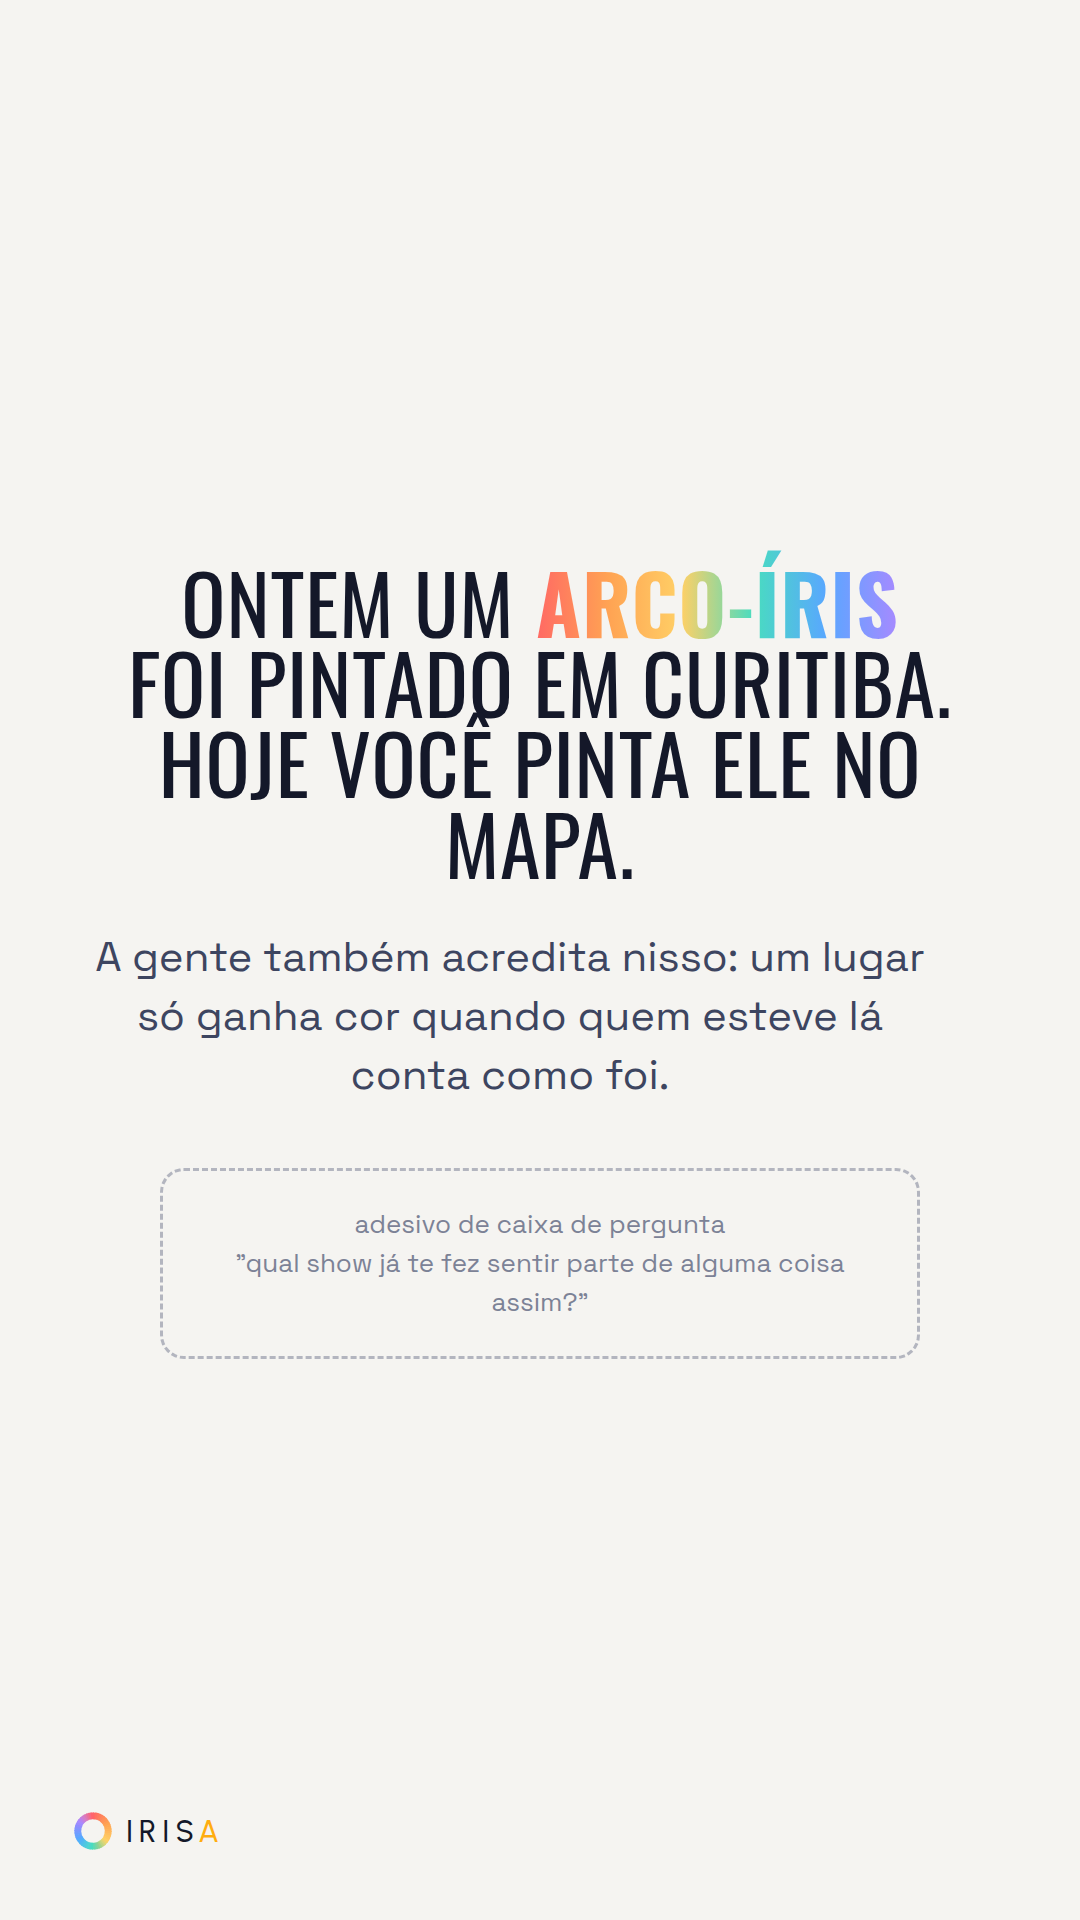
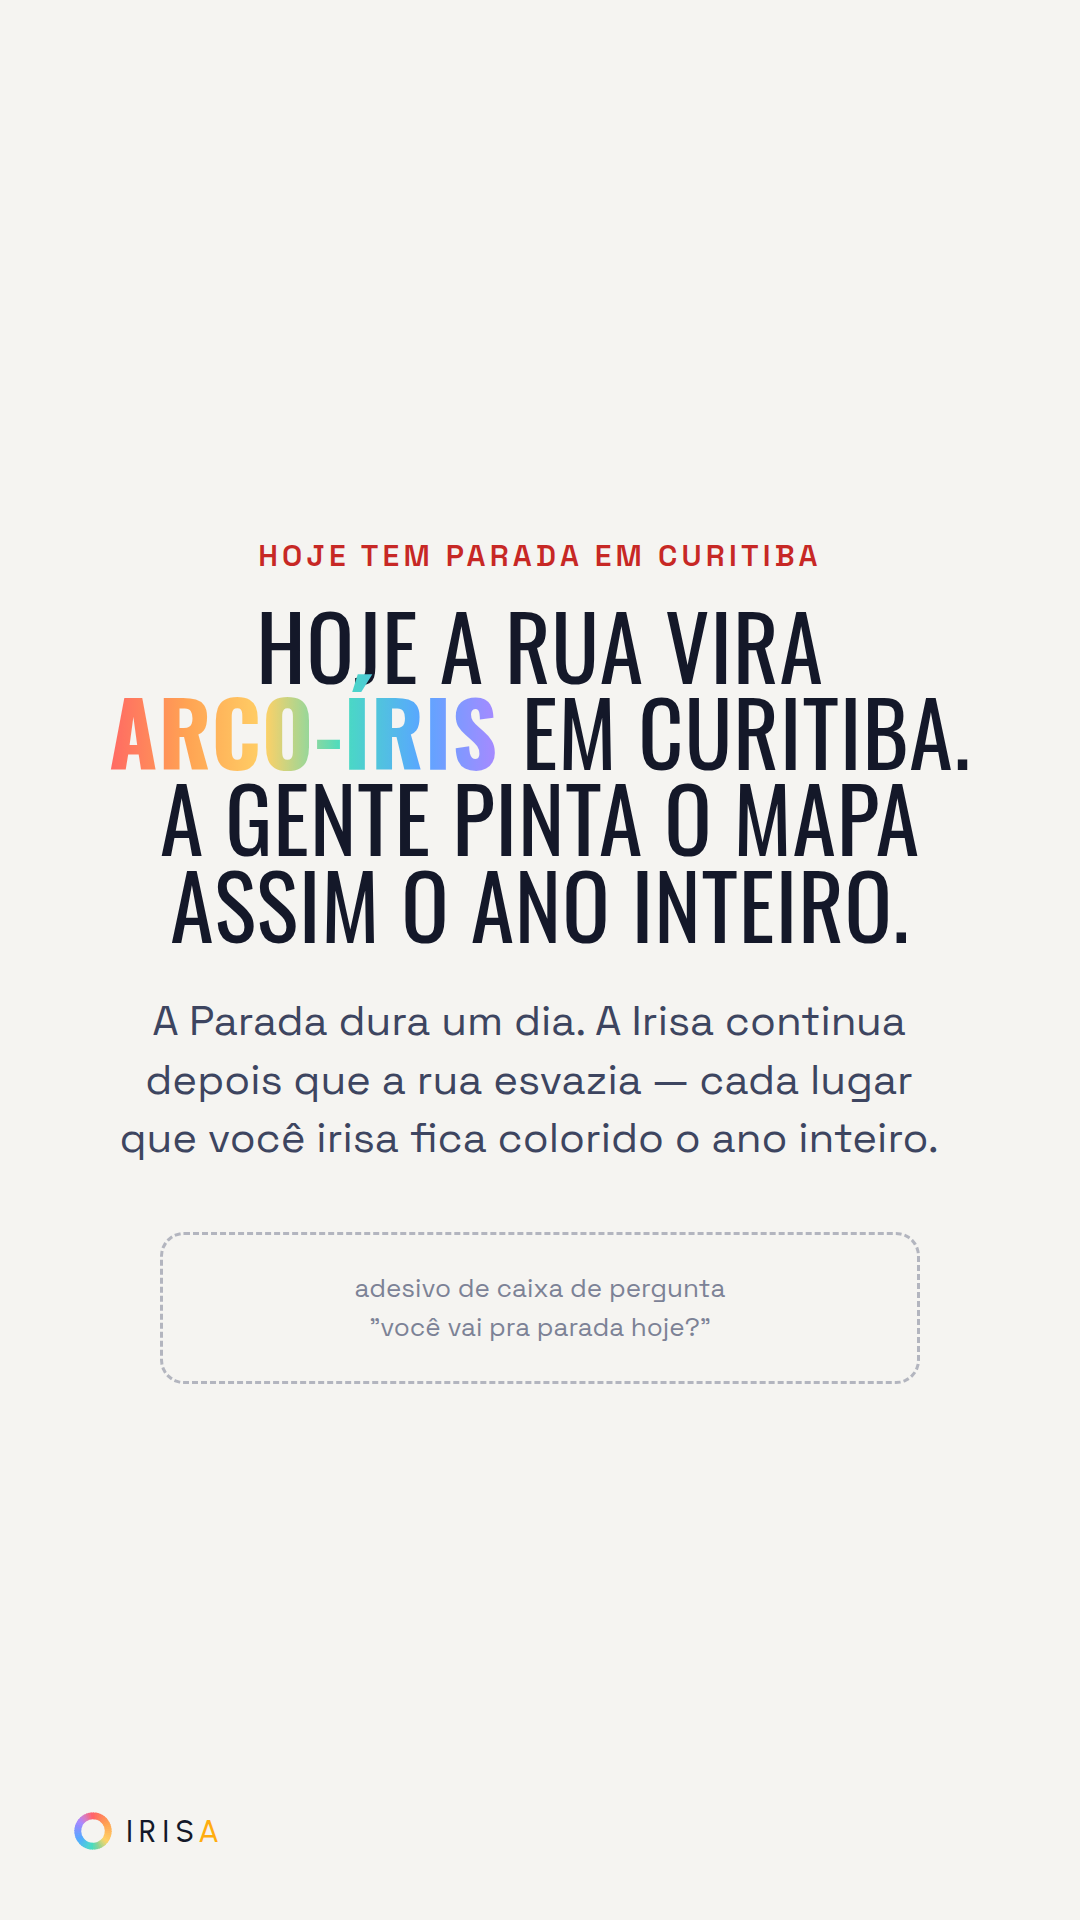
Story de hoje: reescrito pra ser sobre a Parada de Curitiba hoje, não sobre o show de ontem

Changed region(s): [[0.0917, 0.2812, 0.8861, 0.7188], [0.7333, 0.6562, 0.7639, 0.6875], [0.2444, 0.6562, 0.275, 0.6875]]

diff --git a/docs/story-arcoiris.html b/docs/story-arcoiris.html
@@ -39,14 +39,16 @@ body{font-family:var(--body);color:var(--ink);display:flex;flex-direction:column
 <section class="sl story">
   <div class="bg"></div>
   <div class="c">
-    <p class="big c" style="font-size:82px;margin:0 0 46px">
-      <span class="lt">Ontem um</span> <span class="rainbow">arco-íris</span><br>
-      <span class="lt">foi pintado em Curitiba.</span><br>
-      <span class="lt">Hoje você pinta ele no mapa.</span>
+    <div class="eyebrow" style="color:var(--coralInk)">hoje tem parada em curitiba</div>
+    <p class="big c" style="font-size:88px;margin:26px 0 46px">
+      <span class="lt">Hoje a rua vira</span><br>
+      <span class="rainbow">arco-íris</span> <span class="lt">em Curitiba.</span><br>
+      <span class="lt">A gente pinta o mapa</span><br>
+      <span class="lt">assim o ano inteiro.</span>
     </p>
-    <p class="body c">A gente também acredita nisso: um lugar só ganha cor quando quem esteve lá conta como foi.</p>
+    <p class="body c">A Parada dura um dia. A Irisa continua depois que a rua esvazia — cada lugar que você irisa fica colorido o ano inteiro.</p>
   </div>
-  <div class="zone" style="margin-top:64px">adesivo de caixa de pergunta<br>"qual show já te fez sentir parte de alguma coisa assim?"</div>
+  <div class="zone" style="margin-top:64px">adesivo de caixa de pergunta<br>"você vai pra parada hoje?"</div>
   <div class="brand"><svg class="mark" viewBox="0 0 100 100"><use href="#radarmin"></use></svg><span>Iris<b>a</b></span></div>
 </section>
 </body></html>
